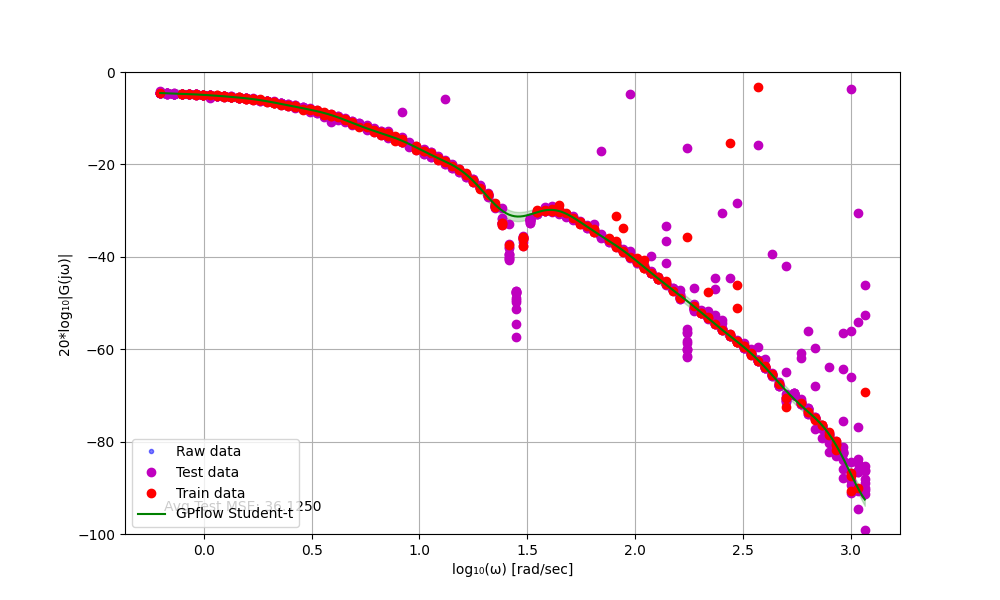
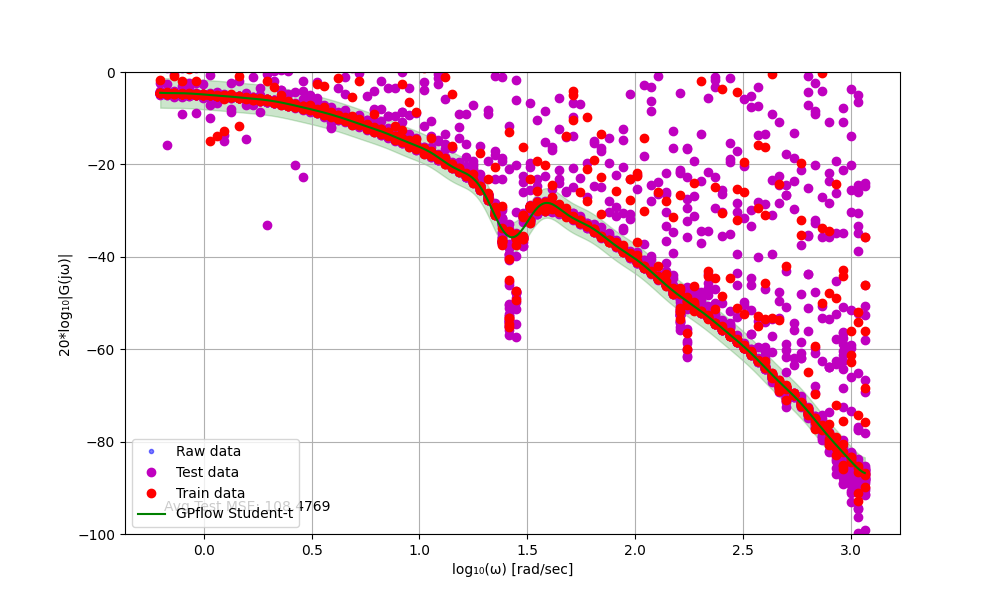
test merge

diff --git a/ITGP.py b/ITGP.py
@@ -6,90 +6,55 @@ from scipy import stats
 import warnings
 from robustgp import ITGP
 import matplotlib.pyplot as plt
-
+import data_prepare.data_load as data_loader
 warnings.filterwarnings('ignore')
 
-"""
-paper; Robust Gaussian Process Regression Based on Iterative Trimming
-https://arxiv.org/abs/2011.11057
-github; https://github.com/syrte/robustgp
-"""
-# Import data
-try:
-    data = np.genfromtxt('result/merged.dat', delimiter=',')
-except:
-    try:
-        data = np.genfromtxt('/root/gauss_process/result/merged.dat', delimiter=',')
-    except:
-        # If the file doesn't exist, create some dummy data for illustration
-        print("Data file not found. Creating dummy data for illustration.")
-        omega = np.logspace(-1, 2, 100)
-        sys_gain_raw = 10 * (1 / (1 + 1j * omega / 10))
-        sys_gain_raw = np.abs(sys_gain_raw) + 0.2 * np.random.randn(len(omega))
-        arg_g_raw = np.angle(1 / (1 + 1j * omega / 10)) + 0.1 * np.random.randn(len(omega))
-        data = np.vstack((omega, sys_gain_raw, arg_g_raw))
-  
-# Transpose if necessary to get data in the right shape
-if data.shape[0] == 3:
-    omega = data[0, :]
-    sys_gain_raw = data[1, :]
-    arg_g_raw = data[2, :]
-else:
-    omega = data[:, 0]
-    sys_gain_raw = data[:, 1]
-    arg_g_raw = data[:, 2]
+# データ読み込み
+X_train, X_test, Y_train, Y_test, omega, sys_gain_raw = data_loader.data_loader(train_ratio=1)
 
-# Sort data by frequency
-idx = np.argsort(omega)
-omega = omega[idx]
-sys_gain_raw = sys_gain_raw[idx]
-arg_g_raw = arg_g_raw[idx]
+# テストデータの有無フラグ
+has_test = (X_test is not None) and (Y_test is not None)
 
-print(f"Number of data points: {len(omega)}")
-
-# No noise removal
-sys_gain = sys_gain_raw
-arg_g = arg_g_raw
-G = sys_gain * np.exp(1j * arg_g)
-
-# Gaussian Process Regression for Gain
-X = np.log10(omega).reshape(-1, 1)
-Y = np.log10(sys_gain)*20
-
-# Split data into training and test sets
-X_train, X_test, Y_train, Y_test = train_test_split(
-    X, Y, test_size=0.8 ,random_state=20
-)
-
-
+# ITGP 実行
 res = ITGP(X_train, Y_train, alpha1=0.5, alpha2=0.975, nsh=2, ncc=2, nrw=1)
 gp, consistency = res.gp, res.consistency
 
-# Create fine grid for predictions
+# ファインチューニング用グリッド
 omega_fine = np.logspace(np.log10(min(omega)), np.log10(max(omega)), 500)
 X_fine = np.log10(omega_fine).reshape(-1, 1)
 
-# Predict with GP
+# GP 予測 (平均＋標準偏差)
 Y_pred_avg, Y_std_avg = gp.predict(X_fine)
 
-# Calculate MSE for test set
-Y_pred_test = gp.predict(X_test)
-mse_avg = np.mean((Y_pred_test - Y_test)**2)
-print(f"Test MSE: {mse_avg:.4f}")
+# テストデータがあれば MSE を計算
+if has_test:
+    Y_pred_test = gp.predict(X_test)
+    mse_avg = np.mean((Y_pred_test - Y_test)**2)
+    print(f"Test MSE: {mse_avg:.4f}")
+else:
+    mse_avg = None
+    print("No test set provided; skipping MSE calculation.")
 
-# Plot results
+# プロット
 plt.figure(figsize=(10,6))
 plt.semilogx(omega, 20*np.log10(sys_gain_raw), 'b.', alpha=0.5, label='Raw data')
-plt.semilogx(10**X_test, Y_test, 'mo', label='Test data')
 plt.semilogx(10**X_train, Y_train, 'ro', label='Train data')
+
+if has_test:
+    plt.semilogx(10**X_test, Y_test, 'mo', label='Test data')
+
 plt.semilogx(omega_fine, Y_pred_avg, 'g-', label='Averaged GPR')
-plt.semilogx(omega_fine, Y_pred_avg+2*Y_std_avg, 'g--', alpha=0.5)
-plt.semilogx(omega_fine, Y_pred_avg-2*Y_std_avg, 'g--', alpha=0.5)
-plt.text(0.05,0.05,f"Avg Test MSE: {mse_avg:.4f}", transform=plt.gca().transAxes)
+plt.semilogx(omega_fine, Y_pred_avg + 2*Y_std_avg, 'g--', alpha=0.5)
+plt.semilogx(omega_fine, Y_pred_avg - 2*Y_std_avg, 'g--', alpha=0.5)
+
+# テキスト表示
+txt = f"Avg Test MSE: {mse_avg:.4f}" if mse_avg is not None else "No test set"
+plt.text(0.05, 0.05, txt, transform=plt.gca().transAxes)
+
 plt.xlabel('ω [rad/sec]')
 plt.ylabel('20*log₁₀|G(jω)|')
-plt.ylim([-100, 0])  # Set y-axis limits
+plt.ylim([-100, 0])
 plt.legend()
 plt.grid(True)
-plt.savefig(f"/root/gauss_process/result/gp_gain_avg.png")
+plt.savefig("/root/gauss_process/result/gp_gain_avg.png")
 plt.close()

diff --git a/gpflow_normal_distribution.py b/gpflow_normal_distribution.py
@@ -5,9 +5,8 @@ import gpflow
 import warnings
 import data_prepare.data_load as data_loader
 from data_prepare.accuracy import accuracy
-import os
-import matplotlib as mpl
 warnings.filterwarnings('ignore')
+import os
 
 def plot_model(model):
     # Create fine grid for predictions
@@ -41,40 +40,20 @@ def plot_model(model):
     os.makedirs("/root/gauss_process/result", exist_ok=True)
     plt.savefig("/root/gauss_process/result/gpflow_gaussian.png")
     plt.close()
+
 # Import data
 X_train, X_test, Y_train, Y_test, omega, sys_gain_raw = data_loader.data_loader(train_ratio=1)
-# Convert to float32 for TensorFlow compatibility
-# Convert to float64 for GPflow compatibility
+# Convert to float64 for GPflow
 X_train = X_train.astype(np.float64)
 Y_train = Y_train.astype(np.float64).reshape(-1, 1)
-# X_test = X_test.astype(np.float64)
-# Y_test = Y_test.astype(np.float64).reshape(-1, 1)
-# Prepare for optional test‐set plotting and nicer figures
-# If X_test or Y_test is None (or empty), we won’t plot test points or compute MSE
-if X_test is None or Y_test is None or X_test.size == 0 or Y_test.size == 0:
-    plot_with_test = False
-else:
-    plot_with_test = True
+# X_test  = X_test.astype(np.float64)
+# Y_test  = Y_test.astype(np.float64).reshape(-1, 1)
 
-# Apply a clean style without altering axes limits or scales
-mpl.rcParams.update({
-    "figure.figsize": (10, 6),
-    "font.size": 12,
-    "axes.grid": True,
-    "legend.fontsize": 10,
-    "lines.linewidth": 1.5,
-    "lines.markersize": 6,
-})
-
-# You can now use the `plot_with_test` flag inside plot_model:
-#   if plot_with_test:
-#       …plot test points and compute MSE…
-
-# Create and train GPflow model with Student-t likelihood
+# Create and train GPflow model with Gaussian likelihood
 model = gpflow.models.VGP(
     data=(X_train, Y_train),
     kernel=gpflow.kernels.SquaredExponential(),
-    likelihood=gpflow.likelihoods.StudentT(),
+    likelihood=gpflow.likelihoods.Gaussian(),  # ← ここを変更
 )
 
 # Optimize the model

diff --git a/data_prepare/data_load.py b/data_prepare/data_load.py
@@ -5,7 +5,7 @@ from sklearn.model_selection import train_test_split
 from pathlib import Path
 
 def data_loader(
-    data_dir: str = "data_prepare",
+    data_dir: str = "./data_prepare",
     file_pattern: str = "*.csv",
     train_ratio: float = 0.2,
     random_state: int = 20
@@ -45,24 +45,32 @@ def data_loader(
         idxs = [g[i] for g in groups]
         sets.append(idxs)
 
-    # 5) セット単位で訓練／テストに分割
-    train_sets, test_sets = train_test_split(
-        sets, train_size=train_ratio, random_state=random_state
-    )
-    print(f"Train sets: {len(train_sets)}, Test sets: {len(test_sets)}")
-
-    # フラットなインデックスリストに戻す
-    train_idx = np.concatenate(train_sets)
-    test_idx  = np.concatenate(test_sets)
+    # 5) セット単位で訓練／テストに分割（train_ratio == 1 の場合は全て訓練用）
+    if train_ratio == 1.0:
+        print("train_ratio=1.0 → テストデータなし（全て訓練データとして使用）")
+        train_idx = np.arange(len(omega))
+        test_idx = None
+    else:
+        train_sets, test_sets = train_test_split(
+            sets, train_size=train_ratio, random_state=random_state
+        )
+        print(f"Train sets: {len(train_sets)}, Test sets: {len(test_sets)}")
+        # フラットなインデックスリストに戻す
+        train_idx = np.concatenate(train_sets)
+        test_idx  = np.concatenate(test_sets)
 
     # 6) 前処理（log変換）して X, Y を作成
     X_all = np.log10(omega).reshape(-1, 1)
     Y_all = np.log10(sys_gain_raw) * 20
 
     X_train = X_all[train_idx]
-    X_test  = X_all[test_idx]
     Y_train = Y_all[train_idx]
-    Y_test  = Y_all[test_idx]
+
+    if test_idx is None:
+        X_test, Y_test = None, None
+    else:
+        X_test = X_all[test_idx]
+        Y_test = Y_all[test_idx]
 
     return X_train, X_test, Y_train, Y_test, omega, sys_gain_raw
 if __name__ == "__main__":
